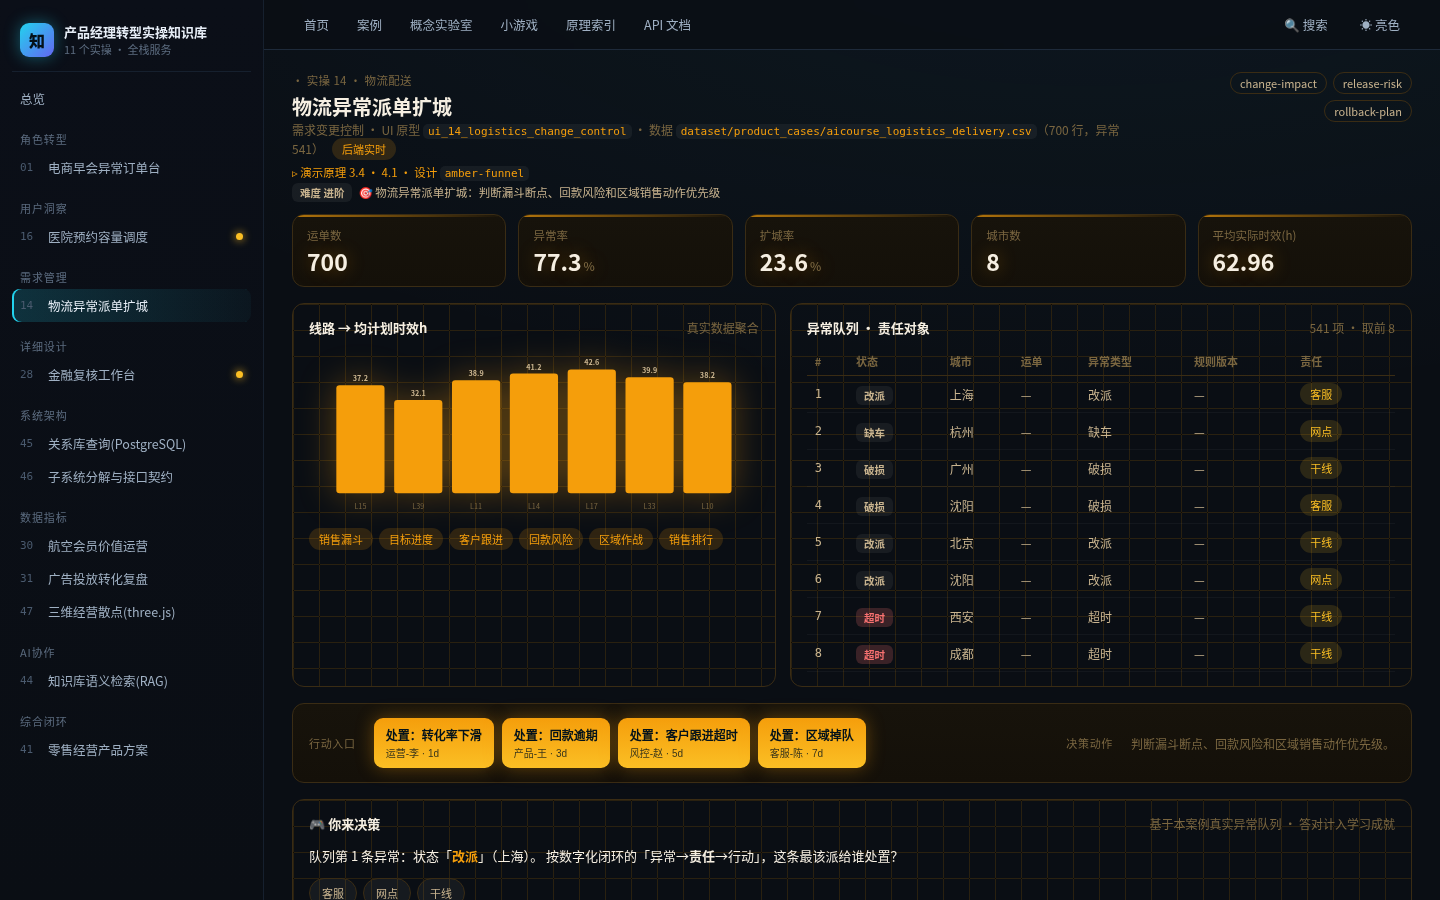
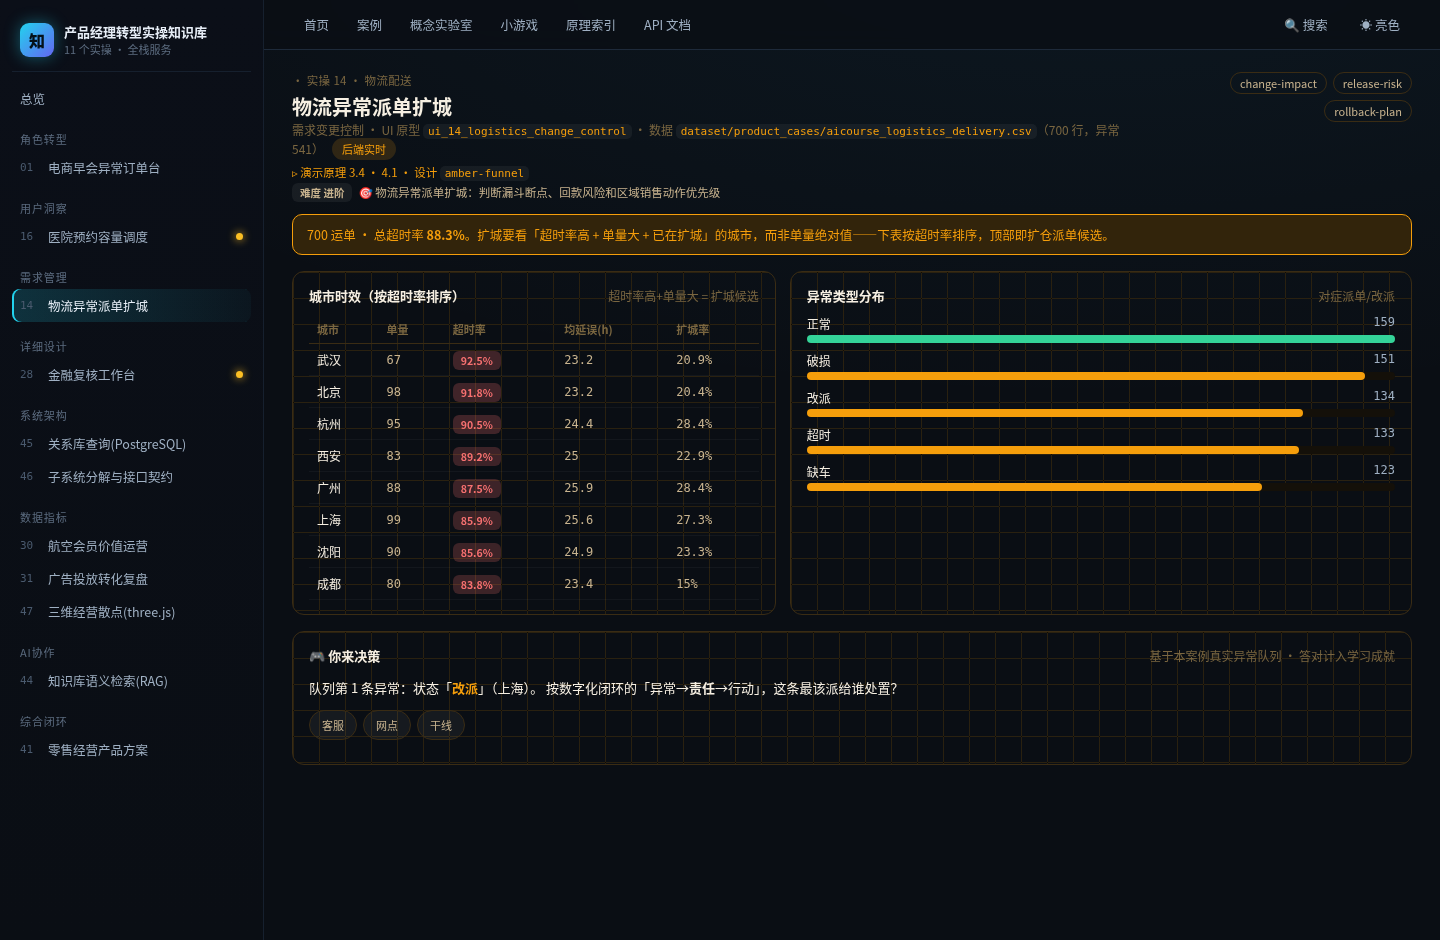
v7 P4 完成业务案例专属 demo：案例14 物流派单（第五个标杆）——9/11 案例已专属
- 后端 /api/dispatch 按城市真算超时率/均延误/扩城率 + 异常类型分布，定位「超时率高+单量大」的扩城候选。
- 前端 DispatchScreen：城市时效表(按超时率排序、色标)+异常类型分布条；banner 点明扩城看超时率非单量。
- case14 screen=dispatch；测试+verify 守卫。
- 里程碑：5 个业务专属 demo(RFM/医院/广告/风控/物流)+4 个技术专属(RAG/PG/架构/3D)=**9/11 案例专属**；剩 01/41 用已数据驱动的诚实模板。审计的「20/25 同模板换肤」问题基本解决。三重检查全绿。

diff --git a/code/web/src/screens.tsx b/code/web/src/screens.tsx
@@ -1,5 +1,5 @@
 import { lazy, Suspense, useEffect, useMemo, useState } from 'react';
-import { fetchSearch, fetchDbQuery, fetchPoints3d, fetchHealth, fetchRfm, fetchHospital, fetchAdFunnel, fetchRiskReview } from './lib/api';
+import { fetchSearch, fetchDbQuery, fetchPoints3d, fetchHealth, fetchRfm, fetchHospital, fetchAdFunnel, fetchRiskReview, fetchDispatch } from './lib/api';
 // three.js 独立 chunk，仅在渲染 3D 案例时动态加载（首屏不含 three）
 const Chart3D = lazy(() => import('./chart3d'));
 
@@ -273,11 +273,53 @@ function RiskScreen() {
   );
 }
 
+// —— 物流派单调度专属 demo（案例14）：按城市超时率/延误/扩城率 + 异常类型分布，定位扩城候选 ——
+function DispatchScreen() {
+  const [d, setD] = useState<any>(null);
+  useEffect(() => { fetchDispatch().then(setD); }, []);
+  if (!d) return <section className="card"><div className="muted">加载派单调度…</div></section>;
+  const maxAnom = Math.max(...d.anomalies.map((x: any) => x.count), 1);
+  return (
+    <>
+      <div className="banner" style={{ color: 'var(--warn)', borderColor: 'var(--warn)' }}>{d.total} 运单 · 总超时率 <b>{d.lateRate}%</b>。扩城要看「超时率高 + 单量大 + 已在扩城」的城市，而非单量绝对值——下表按超时率排序，顶部即扩仓派单候选。</div>
+      <div className="cols">
+        <section className="card">
+          <div className="card-h"><h2>城市时效（按超时率排序）</h2><span className="muted">超时率高+单量大 = 扩城候选</span></div>
+          <div className="tbl-wrap">
+            <table className="tbl">
+              <thead><tr><th>城市</th><th>单量</th><th>超时率</th><th>均延误(h)</th><th>扩城率</th></tr></thead>
+              <tbody>
+                {d.cities.slice(0, 8).map((x: any) => (
+                  <tr key={x.name}>
+                    <td style={{ color: 'var(--ink)' }}>{x.name}</td><td className="mono">{x.count}</td>
+                    <td><span className="badge" style={{ background: 'color-mix(in srgb,var(--bad) ' + Math.round(x.lateRate / 100 * 25) + '%,transparent)', color: 'var(--bad)' }}>{x.lateRate}%</span></td>
+                    <td className="mono">{x.avgDelay}</td><td className="mono">{x.expandRate}%</td>
+                  </tr>
+                ))}
+              </tbody>
+            </table>
+          </div>
+        </section>
+        <section className="card">
+          <div className="card-h"><h2>异常类型分布</h2><span className="muted">对症派单/改派</span></div>
+          {d.anomalies.map((x: any) => (
+            <div key={x.name} style={{ margin: '9px 0' }}>
+              <div style={{ display: 'flex', justifyContent: 'space-between', fontSize: 12 }}><span style={{ color: 'var(--ink)' }}>{x.name}</span><span className="mono">{x.count}</span></div>
+              <div style={{ height: 8, background: 'var(--panelSoft)', borderRadius: 4, marginTop: 3 }}><div style={{ width: `${(x.count / maxAnom) * 100}%`, height: '100%', background: x.name === '正常' ? 'var(--ok)' : 'var(--warn)', borderRadius: 4 }} /></div>
+            </div>
+          ))}
+        </section>
+      </div>
+    </>
+  );
+}
+
 export function SpecialScreen({ screen }: { screen: string }) {
   if (screen === 'rfm') return <RfmScreen />;
   if (screen === 'capacity') return <HospitalScreen />;
   if (screen === 'adfunnel') return <AdFunnelScreen />;
   if (screen === 'riskreview') return <RiskScreen />;
+  if (screen === 'dispatch') return <DispatchScreen />;
   if (screen === 'rag') return <RagScreen />;
   if (screen === 'db') return <DbScreen />;
   if (screen === 'arch') return <ArchScreen />;

diff --git a/code/server/services/cases.ts b/code/server/services/cases.ts
@@ -105,3 +105,18 @@ export function riskReview() {
   const reviewRate = Math.round(rows.filter((r) => /待复核|是/.test(r[rev] || '')).length / total * 1000) / 10;
   return { total, highRate, reviewRate, levels, priority };
 }
+
+/** 物流派单调度真实分析（案例14 专属 demo）：按城市真算超时率/均延误/扩城率 + 异常类型分布，定位扩城候选。 */
+export function dispatch() {
+  const t = parseCsv(join(ROOT, 'dataset', 'product_cases', 'aicourse_logistics_delivery.csv'));
+  const ci = (n: string) => t.head.indexOf(n);
+  const [city, plan, actual, anom, expand] = ['城市', '计划时效h', '实际时效h', '异常类型', '是否扩城'].map(ci);
+  const rows = t.rows;
+  const cm: Record<string, { n: number; late: number; delay: number; expand: number }> = {};
+  for (const r of rows) { const k = r[city] || '—'; (cm[k] ||= { n: 0, late: 0, delay: 0, expand: 0 }); const m = cm[k]; m.n++; const p = Number(r[plan]) || 0, a = Number(r[actual]) || 0; if (a > p) { m.late++; m.delay += a - p; } if ((r[expand] || '') === '是') m.expand++; }
+  const cities = Object.entries(cm).map(([name, m]) => ({ name, count: m.n, lateRate: Math.round(m.late / m.n * 1000) / 10, avgDelay: m.late ? Math.round(m.delay / m.late * 10) / 10 : 0, expandRate: Math.round(m.expand / m.n * 1000) / 10 })).sort((a, b) => b.lateRate - a.lateRate);
+  const am: Record<string, number> = {}; for (const r of rows) { const k = r[anom] || '正常'; am[k] = (am[k] || 0) + 1; }
+  const anomalies = Object.entries(am).sort((a, b) => b[1] - a[1]).map(([name, count]) => ({ name, count }));
+  const total = rows.length, lateRate = Math.round(rows.filter((r) => (Number(r[actual]) || 0) > (Number(r[plan]) || 0)).length / total * 1000) / 10;
+  return { total, lateRate, cities, anomalies };
+}

diff --git a/code/server/routes/api.ts b/code/server/routes/api.ts
@@ -1,5 +1,5 @@
 import { join } from 'node:path';
-import { listCases, caseData, getIndex, points3d, rfm, hospital, adFunnel, riskReview } from '../services/cases.ts';
+import { listCases, caseData, getIndex, points3d, rfm, hospital, adFunnel, riskReview, dispatch } from '../services/cases.ts';
 import { tokenize } from '../services/tokenize.ts';
 import { openapiSpec } from '../services/openapi.ts';
 import { VectorStore } from '../vector/store.ts';
@@ -25,6 +25,7 @@ export async function apiRoutes(app: any) {
   app.get('/api/hospital', async () => hospital());
   app.get('/api/adfunnel', async () => adFunnel());
   app.get('/api/riskreview', async () => riskReview());
+  app.get('/api/dispatch', async () => dispatch());
   app.get('/api/tokenize', async (req: any) => tokenize(String(req.query.text ?? '你好，今天天气怎么样？Hello AI Agent 2026')));
   app.get('/api/openapi.json', async () => openapiSpec());
   app.get('/api/search', async (req: any) => {

diff --git a/code/server/tests/api.test.ts b/code/server/tests/api.test.ts
@@ -8,6 +8,8 @@ test('后端 API 全绿', async () => {
   assert.equal(h.statusCode, 200); assert.equal(h.json().ok, true);
   const cs = await app.inject({ url: '/api/cases' });
   assert.ok(Array.isArray(cs.json()) && cs.json().length >= 10, '案例列表 >= 10（精品集）');
+  const ds = await app.inject({ url: '/api/dispatch' });
+  assert.ok(ds.json().cities.length >= 2 && ds.json().anomalies.length >= 1, '物流派单调度');
   const rk = await app.inject({ url: '/api/riskreview' });
   assert.ok(rk.json().levels.length >= 2 && rk.json().priority.length >= 1, '风控复核队列');
   const af = await app.inject({ url: '/api/adfunnel' });

diff --git a/code/web/src/lib/api.ts b/code/web/src/lib/api.ts
@@ -25,3 +25,5 @@ export const fetchHospital = () => getJson<any>('/api/hospital');
 export const fetchAdFunnel = () => getJson<any>('/api/adfunnel');
 
 export const fetchRiskReview = () => getJson<any>('/api/riskreview');
+
+export const fetchDispatch = () => getJson<any>('/api/dispatch');